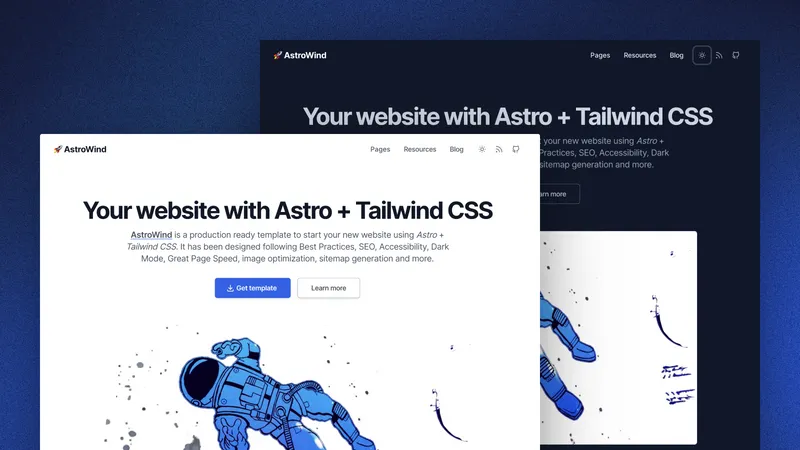
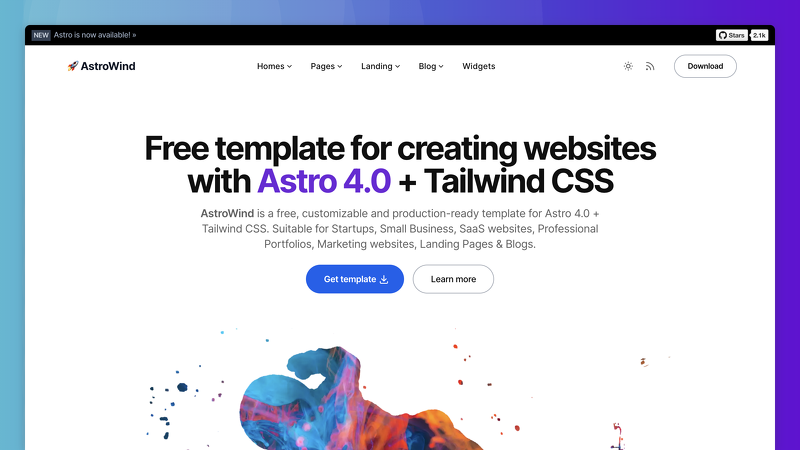
AstroWind theme update: Metadata and Images.

diff --git a/src/content/themes/astrowind.md b/src/content/themes/astrowind.md
@@ -1,9 +1,12 @@
 ---
 title: "AstroWind"
-description: "A template to make your website using Astro + Tailwind CSS."
+description: "Free, customizable and production-ready template for Astro using Tailwind CSS."
 image: "/src/content/themes/_images/astrowind-hero.webp"
 images:
-  - "/src/content/themes/_images/astrowind.webp"
+  - "/src/content/themes/_images/astrowind-1.webp"
+  - "/src/content/themes/_images/astrowind-2.webp"
+  - "/src/content/themes/_images/astrowind-3.webp"
+  - "/src/content/themes/_images/astrowind-4.webp"
 author:
   url: "https://github.com/onwidget"
   name: "onwidget"
@@ -11,6 +14,8 @@ author:
 categories:
   - "featured"
   - "landing-page"
+  - "portfolio"
+  - "blog"
 repoUrl: "https://github.com/onwidget/astrowind"
 demoUrl: "https://astrowind.vercel.app/"
 stars: 2074
@@ -18,4 +23,40 @@ featured: 5
 tools:
   - "tailwind"
   - "mdx"
+  - "typescript"
 ---
+
+<p>
+  <strong>AstroWind</strong> is a Free, Customizable and Production-ready template for Astro using Tailwind CSS. Suitable for Startups, Small Business, SaaS websites, Professional Portfolios, Marketing websites, Landing Pages & Blogs.
+</p>
+
+<h2>Philosophy</h2>
+
+<p>
+  Simplicity, Best Practices and High Performance
+</p>
+
+<h2>Features</h2>
+
+<ul>
+  <li>Build with TypeScript</li>
+  <li>Production-ready scores in PageSpeed Insights reports.</li>
+  <li>SEO-friendly</li>
+  <li>Responsive Design.</li>
+  <li>Integration with Tailwind CSS supporting Dark mode and RTL.</li>
+  <li>Highly Customizable.</li>
+  <li>Image Optimization (using new Astro Assets and Unpic for Universal image CDN).</li>
+  <li>Open Graph tags and dynamic OG image generation for social media sharing.</li>
+  <li>Sitemap</li>
+  <li>Analytics built-in</li>
+  <li>Blog with automatic RSS feed, MDX support, Categories &amp; Tags, Authors, Social Share</li>
+  <li>Includes draft posts &amp; pagination</li>
+  <li>A lot of Widgets: Heros, Features, FAQs, Pricing ...</li>
+  <li>Pages: Services, Pricing, About, Contact, Terms ...</li>
+  <li>Home Pages and Landing Pages: Startup, SaaS, Personal ...</li>
+  <li>Preconfigured for Decap CMS</li>
+</ul>
+
+<p>This template was built with love by <a href="https://onwidget.com">onWidget</a> using <a href="https://astro.build/">Astro</a> and <a href="https://tailwindcss.com/">Tailwind CSS</a>.
+  
+For more information on how to get started and what tools were you please check out the <a href="https://github.com/onwidget/astrowind">official repository on GitHub.</a>.
